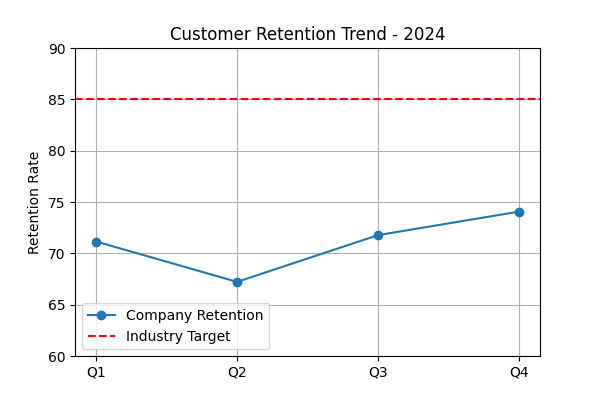
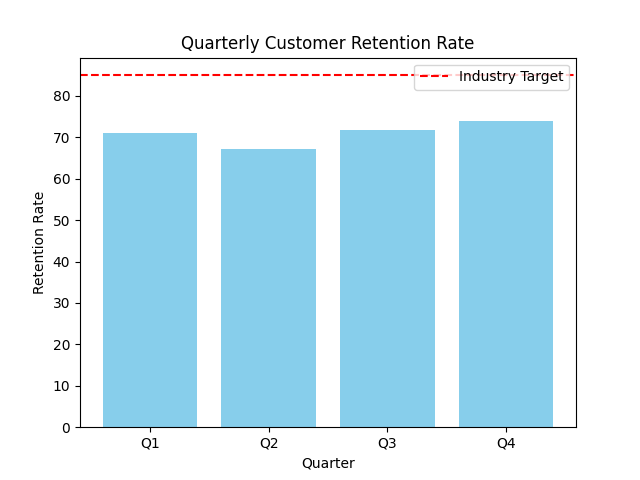
Add files via upload

diff --git a/analysis.py b/analysis.py
@@ -1,24 +1,20 @@
 # analysis.py
+# Email: 24ds3000105@ds.study.iitm.ac.in
+
 import matplotlib.pyplot as plt
 
-# Quarterly customer retention data
+# Quarterly customer retention rates
 quarters = ["Q1", "Q2", "Q3", "Q4"]
 retention = [71.15, 67.22, 71.77, 74.06]
-industry_target = 85
-average_retention = sum(retention) / len(retention)
+average = sum(retention) / len(retention)
+print("Average customer retention:", round(average, 2))  # Should be 71.05
 
-# Print frequency stats
-print(f"Quarterly retention: {retention}")
-print(f"Average retention: {average_retention:.2f}")
-
-# Plot trend
-plt.figure(figsize=(6,4))
-plt.plot(quarters, retention, marker='o', label="Company Retention")
-plt.axhline(y=industry_target, color='r', linestyle='--', label="Industry Target")
-plt.title("Customer Retention Trend - 2024")
+# Create a bar chart
+plt.bar(quarters, retention, color="skyblue")
+plt.axhline(85, color="red", linestyle="--", label="Industry Target")
+plt.title("Quarterly Customer Retention Rate")
 plt.ylabel("Retention Rate")
-plt.ylim(60, 90)
+plt.xlabel("Quarter")
 plt.legend()
-plt.grid(True)
 plt.savefig("retention_trend.png", dpi=100)
 plt.show()
